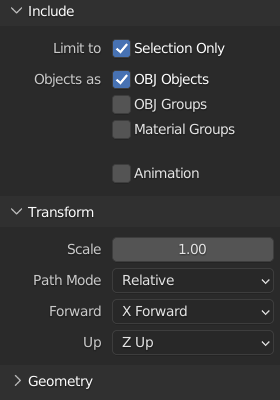
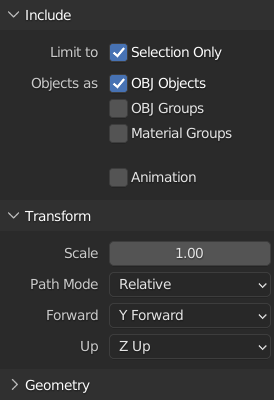
[Doc] tutorial 2-1 fix forward axis

diff --git a/docs/Tutorials/tutorial2/CreateSimpleModel.html b/docs/Tutorials/tutorial2/CreateSimpleModel.html
@@ -194,7 +194,7 @@
         <p>Let's start with the OBJ format. Select your object first then, on the top left, go to <code>File > Export</code> and select <code>Wavefront (.obj)</code>.
            Before selecting the desired folder, we have to modify some export parameters.
            On the right panel, select the <code>Selection Only</code> option to ensure that you only export the selected objects and not an entire scene.
-           Then, in the transform panel, we have to change the <code>Forward</code> to X and the <code>Up</code> to Z. 
+           Then, in the transform panel, we have to change the <code>Forward</code> to Y and the <code>Up</code> to Z. 
            Finally, change the <code>Path Mode</code> to "Relative". You should get that:
         </p>
 
@@ -209,7 +209,7 @@
         <p>We will now do the same for the STL format. Select your object first then, on the top left, go to <code>File > Export</code> and select <code>Stl (.stl)</code>.
            Once again, before selecting the desired folder, we have to modify some export parameters.
            On the right panel, select again the <code>Selection Only</code> option to ensure that you only export the selected objects and not an entire scene.
-           Then, in the transform panel, change also the <code>Forward</code> to X and the <code>Up</code> to Z. 
+           Then, in the transform panel, change also the <code>Forward</code> to Y and the <code>Up</code> to Z. 
            You should get that:
         </p>
 
